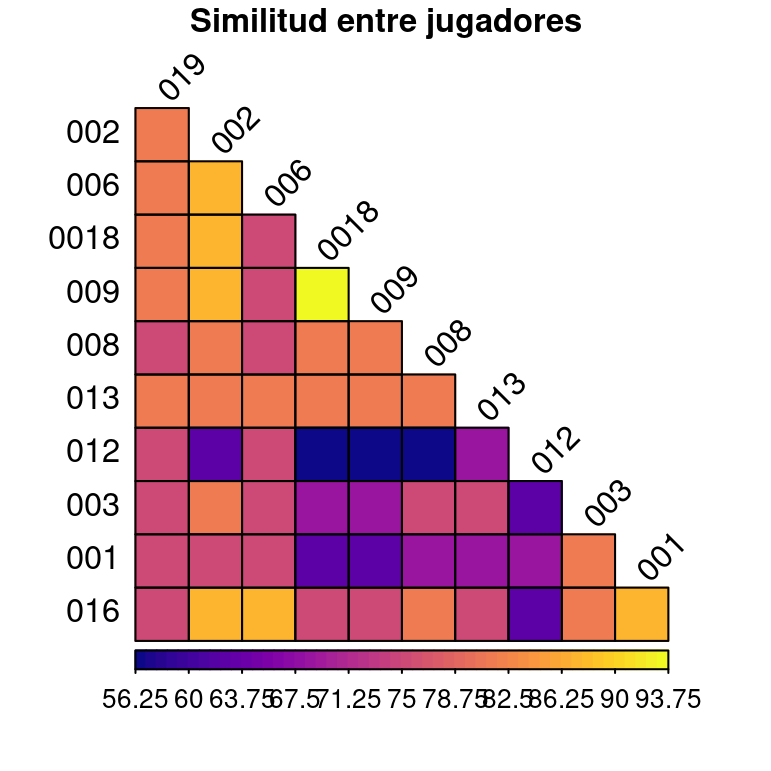
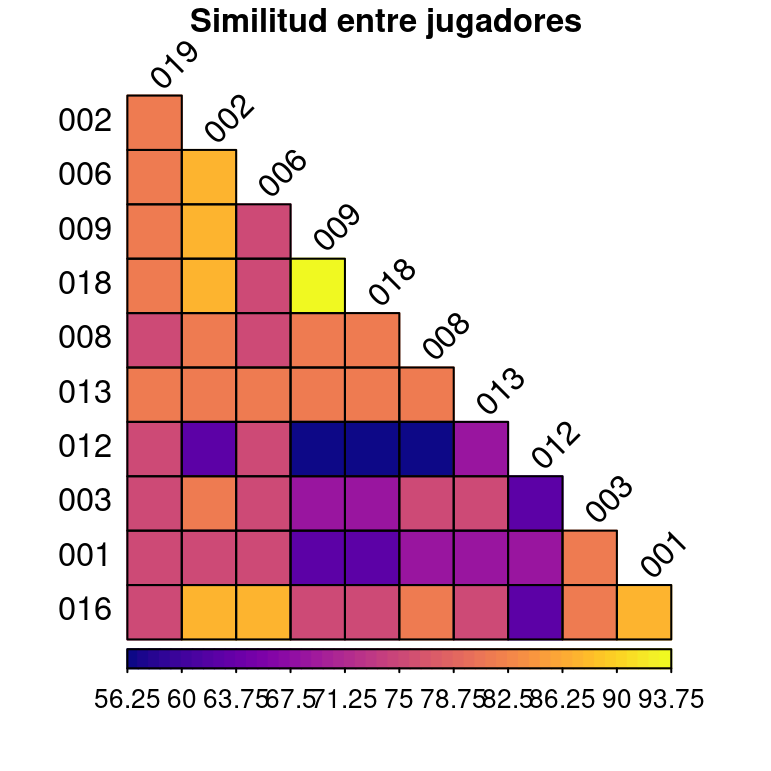
automatic README update

Changed region(s): [[0.0623, 0.0311, 0.9339, 0.9339]]

diff --git a/README.md b/README.md
@@ -27,7 +27,6 @@ Este es el repositorio de la quiniela Qatar 2022. Aqui se publicarán las picks 
 | numero_participante | Nombre                        | Qatar vs Ecuador | England vs Iran | Senegal vs Netherlands | USA vs Wales | Argentina vs Saudi Arabia | Denmark vs Tunisia | Mexico vs Poland | France vs Australia | Morocco vs Croatia | Germany vs Japan | Spain vs Costa Rica | Belgium vs Canada | Switzerland vs Cameroon | Uruguay vs Korea | Portugal vs Ghana | Brazil vs Serbia |
 | ------------------- | ----------------------------- | ---------------- | --------------- | ---------------------- | ------------ | ------------------------- | ------------------ | ---------------- | ------------------- | ------------------ | ---------------- | ------------------- | ----------------- | ----------------------- | ---------------- | ----------------- | ---------------- |
 | 001                 | Jonathan                      | Draw             | England         | Netherlands            | Draw         | Argentina                 | Denmark            | Draw             | France              | Croatia            | Germany          | Spain               | Belgium           | Draw                    | Draw             | Portugal          | Brazil           |
-| 0018                | Eduardo Rafael Palacios Rejón | Ecuador          | England         | Netherlands            | USA          | Argentina                 | Tunisia            | Mexico           | France              | Croatia            | Germany          | Spain               | Belgium           | Cameroon                | Uruguay          | Portugal          | Brazil           |
 | 002                 | Poncho                        | Ecuador          | England         | Netherlands            | USA          | Argentina                 | Denmark            | Draw             | France              | Croatia            | Germany          | Spain               | Belgium           | Cameroon                | Uruguay          | Portugal          | Brazil           |
 | 003                 | Habib                         | Ecuador          | England         | Netherlands            | Draw         | Argentina                 | Denmark            | Draw             | France              | Draw               | Germany          | Spain               | Belgium           | Draw                    | Uruguay          | Portugal          | Brazil           |
 | 006                 | Juan Carlos Avendaño Aguilar | Qatar            | England         | Netherlands            | USA          | Argentina                 | Denmark            | Draw             | France              | Croatia            | Germany          | Spain               | Belgium           | Switzerland             | Uruguay          | Portugal          | Brazil           |
@@ -36,6 +35,7 @@ Este es el repositorio de la quiniela Qatar 2022. Aqui se publicarán las picks 
 | 012                 | Ibrahim T                     | Qatar            | England         | Netherlands            | Draw         | Argentina                 | Denmark            | Poland           | France              | Croatia            | Japan            | Spain               | Belgium           | Switzerland             | Korea            | Portugal          | Brazil           |
 | 013                 | Rubén Aguilar Grande         | Ecuador          | England         | Netherlands            | Wales        | Argentina                 | Denmark            | Mexico           | France              | Croatia            | Germany          | Spain               | Belgium           | Switzerland             | Uruguay          | Portugal          | Brazil           |
 | 016                 | Ernie                         | Draw             | England         | Netherlands            | USA          | Argentina                 | Denmark            | Draw             | France              | Croatia            | Germany          | Spain               | Belgium           | Draw                    | Uruguay          | Portugal          | Brazil           |
+| 018                 | Eduardo Rafael Palacios Rejón | Ecuador          | England         | Netherlands            | USA          | Argentina                 | Tunisia            | Mexico           | France              | Croatia            | Germany          | Spain               | Belgium           | Cameroon                | Uruguay          | Portugal          | Brazil           |
 | 019                 | Diego Angeles                 | Qatar            | England         | Netherlands            | Draw         | Argentina                 | Denmark            | Mexico           | France              | Croatia            | Germany          | Spain               | Belgium           | Cameroon                | Uruguay          | Portugal          | Brazil           |
 ### Gráficos
 
@@ -50,10 +50,10 @@ Este es el repositorio de la quiniela Qatar 2022. Aqui se publicarán las picks 
 Este es el top 5 de jugadores que más cambiarán su posición en la tabla tras concluir la ronda: 
 
 
-| numero_participante | Nombre                        |
-| ------------------- | ----------------------------- |
-| 012                 | Ibrahim T                     |
-| 001                 | Jonathan                      |
-| 003                 | Habib                         |
-| 008                 | Héctor Zepeda                |
-| 0018                | Eduardo Rafael Palacios Rejón |
+| numero_participante | Nombre            |
+| ------------------- | ----------------- |
+| 012                 | Ibrahim T         |
+| 001                 | Jonathan          |
+| 003                 | Habib             |
+| 008                 | Héctor Zepeda    |
+| 009                 | Luis Temo Marquez |
